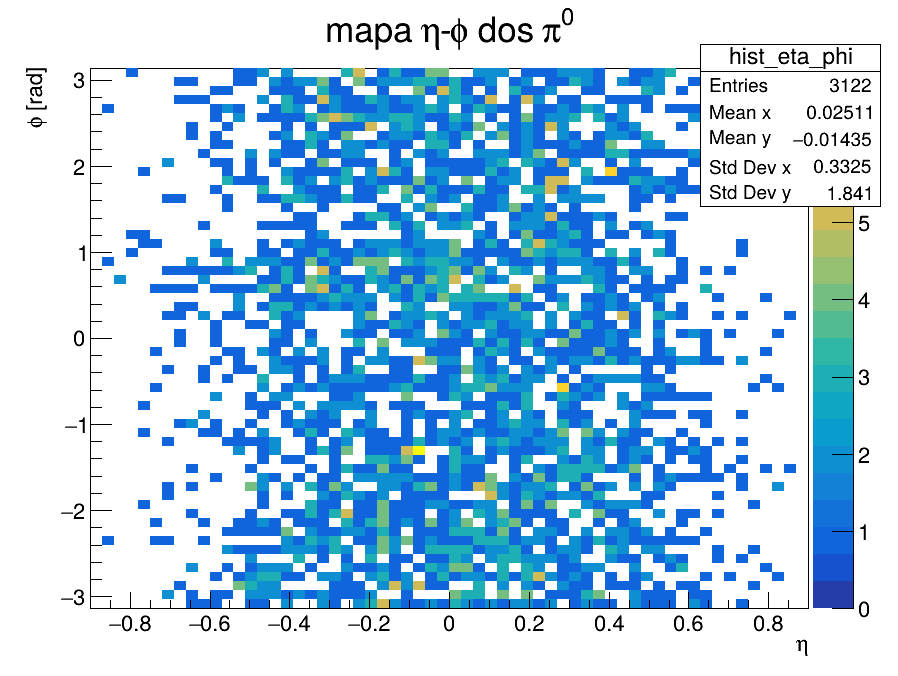
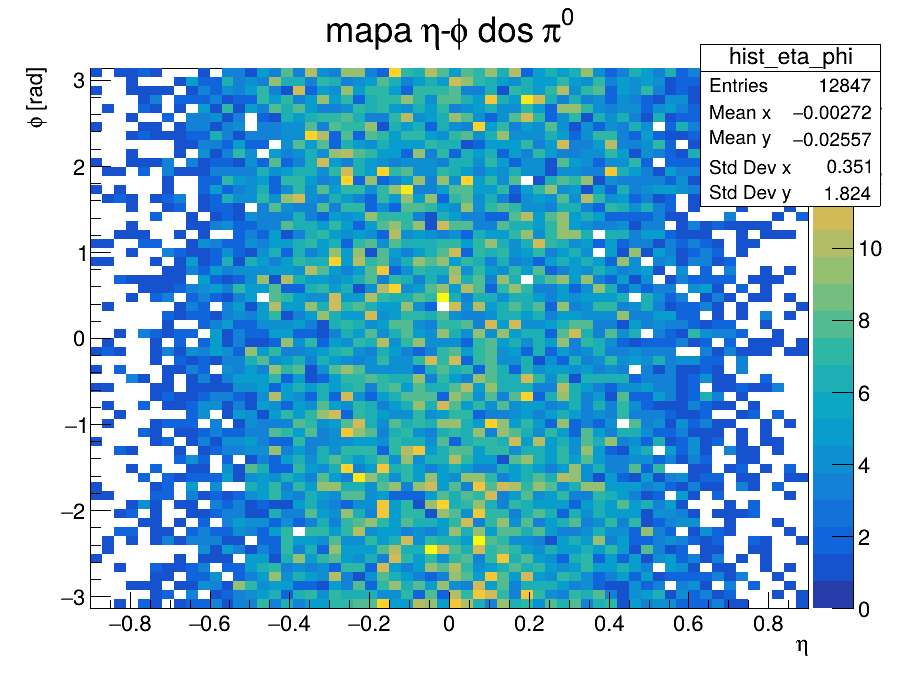
Baixa pTHatMin para 10 GeV e atualiza figuras do FotonDireto

diff --git a/FotonDireto/jatos_pi0_decai.cc b/FotonDireto/jatos_pi0_decai.cc
@@ -55,10 +55,10 @@ Int_t mae_pi0(TClonesArray *lista, Int_t i)
 
     TParticle *p = (TParticle*) lista->At(idx);
     Int_t m1 = p->GetFirstMother();
-    Int_t m2 = p->GetSecondMother();
+    // Int_t m2 = p->GetSecondMother();
 
     if (m1 < 0 || m1 >= n) return -1;   // topo do registro
-    if (m2 > m1)           return -1;   // faixa de maes -> string de cor
+    // if (m2 > m1)           return -1;   // faixa de maes -> string de cor
 
     if (((TParticle*) lista->At(m1))->GetPdgCode() == 111) return m1;  // achou
 
@@ -83,7 +83,7 @@ void jatos_pi0_decai()
   pythia8->ReadString("HardQCD:all = on");
   pythia8->ReadString("Random:setSeed = on");
 
-  pythia8->ReadString("PhaseSpace:pTHatMin = 20."); // sem isso quase nao sai jato acima de 20 GeV
+  pythia8->ReadString("PhaseSpace:pTHatMin = 10."); // sem isso quase nao sai jato acima de 20 GeV
   pythia8->ReadString("Random:seed = 43");
 
   pythia8->Initialize(2212, 2212, energia);
